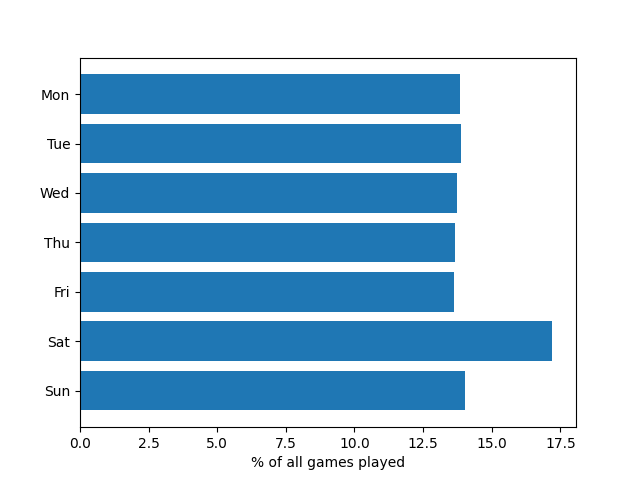
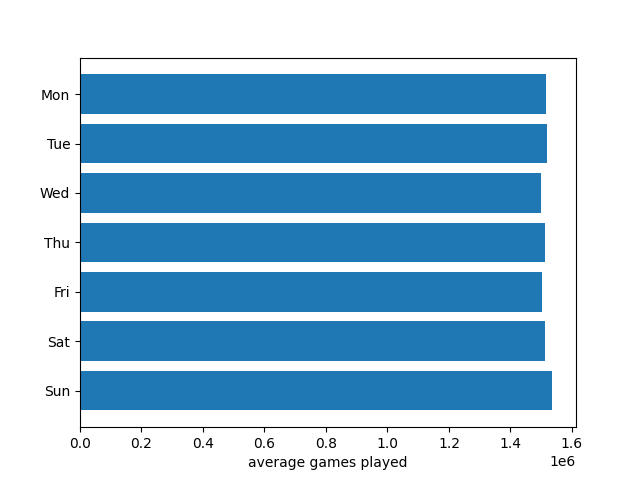
another month of data

diff --git a/studies/daily_games.py b/studies/daily_games.py
@@ -7,45 +7,72 @@ import numpy as np
 from utils.meta_info import get_meta_df
 
 
-def count_games() -> Tuple[dict, dict]:
+def count_games() -> Tuple[dict, dict, dict]:
     df = get_meta_df(usecols=['UTCDate', 'UTCTime'])
 
-    day_of_week_counters = {i: 0 for i in range(1, 8)}
+    day_of_week_counters = {i: {} for i in range(1, 8)}
     hourly_counters = {i: {str(h).rjust(2, '0'): 0 for h in range(0, 24)} for i in range(1, 8)}
+    daily_counters = {}
 
     c = 0
-
     for row in df.itertuples(index=False):
 
         y, m, d = row[0].split('.')
         day_of_week = date(int(y), int(m), int(d)).isoweekday()
 
-        day_of_week_counters[day_of_week] += 1
+        if row[0] not in day_of_week_counters[day_of_week]:
+            day_of_week_counters[day_of_week][row[0]] = 0
+        day_of_week_counters[day_of_week][row[0]] += 1
 
         h = row[1].split(':')[0]
         hourly_counters[day_of_week][h] += 1
 
+        if row[0] not in daily_counters:
+            daily_counters[row[0]] = 0
+        daily_counters[row[0]] += 1
+
         c += 1
-        if not c % 1000:
+        if not c % 100000:
             print(c)
-    return day_of_week_counters, hourly_counters
+
+    for h, data in hourly_counters.items():
+        hourly_counters[h] = {k: v / len(day_of_week_counters[h]) for k, v in data.items()}
+
+    for day, data in day_of_week_counters.items():
+        day_of_week_counters[day] = sum(data.values()) / len(data)
+
+    return daily_counters, day_of_week_counters, hourly_counters
 
 
-def plot_daily_games(day_of_week_counters: dict):
+def plot_day_of_week_games(day_of_week_counters: dict):
     fig, ax = plt.subplots()
 
     weekdays = ('Mon', 'Tue', 'Wed', 'Thu', 'Fri', 'Sat', 'Sun')
     y_pos = np.arange(len(weekdays))
     num_games = list(day_of_week_counters.values())
-    num_games_pct = [n / sum(num_games) * 100 for n in num_games]
 
-    ax.barh(y_pos, num_games_pct, align='center')
+    ax.barh(y_pos, num_games, align='center')
     ax.set_yticks(y_pos)
     ax.set_yticklabels(weekdays)
     ax.invert_yaxis()
-    ax.set_xlabel('% of all games played')
+    ax.set_xlabel('average games played')
 
     plt.savefig('../images/day_of_week_games.png')
+
+
+def plot_daily_games(daily_counters: dict):
+    fig, ax = plt.subplots()
+
+    x = list(daily_counters.keys())
+    ax.plot(x, list(daily_counters.values()))
+    for i in range(1, len(x)-1):
+        x[i] = ''
+    ax.set_xticklabels(x)
+
+    plt.grid(color='0.95')
+    plt.ylim(bottom=0, top=1.7*1000000)
+    plt.title('daily games')
+    plt.savefig('../images/daily_games.png')
 
 
 def plot_games_vs_utc_hours(hourly_counters: dict):
@@ -55,18 +82,20 @@ def plot_games_vs_utc_hours(hourly_counters: dict):
     for dow, data in hourly_counters.items():
         ax.plot(list(data.keys()), list(data.values()), label=weekdays[dow-1])
 
-    ax.set_yticklabels([])
     plt.grid(color='0.95')
     plt.legend()
-    plt.title('num. games vs UTC hours')
+    plt.title('average games vs UTC hours')
     plt.savefig('../images/num_games_vs_utc_hours.png')
 
 
 if __name__ == '__main__':
-    day_of_week_counters, hourly_counters = count_games()
-    
+    daily_counters, day_of_week_counters, hourly_counters = count_games()
+
     # plot daily games
-    plot_daily_games(day_of_week_counters)
+    plot_daily_games(daily_counters)
+
+    # plot day of week games
+    plot_day_of_week_games(day_of_week_counters)
 
     # plot games vs utc hours
     plot_games_vs_utc_hours(hourly_counters)

diff --git a/utils/meta_info.py b/utils/meta_info.py
@@ -25,28 +25,32 @@ if __name__ == '__main__':
     header_elements = ('Event', 'Date', 'White', 'Black', 'Result', 'UTCDate', 'UTCTime', 'WhiteElo', 'BlackElo',
                        'ECO', 'Opening', 'TimeControl', 'Termination')
 
+    games_files = ['lichess_db_standard_rated_2020-01.pgn', 'lichess_db_standard_rated_2020-02.pgn']
+
     with open(meta_file_path, 'w', newline='') as csv_file:
         writer = csv.writer(csv_file, delimiter='|')
         writer.writerow(header_elements)
 
-        with open('../games/lichess_db_standard_rated_2020-02.pgn') as games_file:
-            d = {h: '' for h in header_elements}
-            headers_found = False
-            rows_counter = 0
+        for f in games_files:
+            with open('../games/{0}'.format(f)) as games_file:
+                d = {h: '' for h in header_elements}
+                headers_found = False
+                rows_counter = 0
 
-            for line in games_file:
-                if line.startswith('['):
-                    txt = line[1:-3]
-                    for h in header_elements:
-                        if txt.startswith(h+' '):
-                            txt = txt.replace(h + ' "', '')
-                            d[h] = txt
-                            headers_found = True
-                            break
+                for line in games_file:
+                    if line.startswith('['):
+                        txt = line[1:-3]
+                        for h in header_elements:
+                            if txt.startswith(h+' '):
+                                txt = txt.replace(h + ' "', '')
+                                d[h] = txt
+                                headers_found = True
+                                break
 
-                if line == '\n' and headers_found:
-                    writer.writerow([d[el] for el in header_elements])
-                    d = {h: '' for h in header_elements}
-                    headers_found = False
-                    rows_counter += 1
-                    print(rows_counter)
+                    if line == '\n' and headers_found:
+                        writer.writerow([d[el] for el in header_elements])
+                        d = {h: '' for h in header_elements}
+                        headers_found = False
+                        rows_counter += 1
+                        if not rows_counter % 1000:
+                            print(rows_counter)
